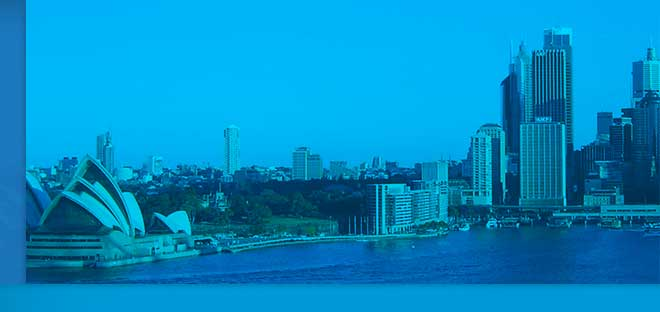
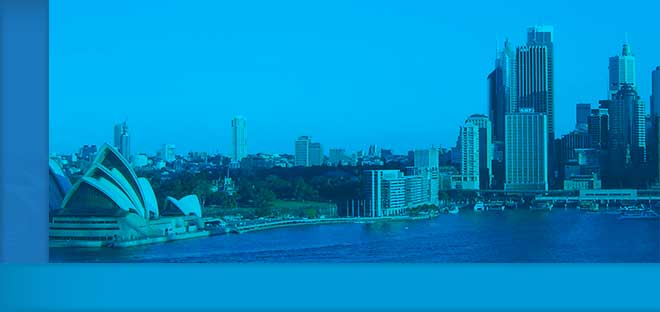
added hero images for air quality, energy solutions, smart tech, and global action climate category pages

diff --git a/sites/climate/style.css b/sites/climate/style.css
@@ -1,2 +1,2 @@
-.content{background:#ffffff}.entry-content a,.entry-content a:hover,.footer-widget a,.footer-widget a:hover{color:#128ad3}.pagination a{color:white;background-color:#128ad3;margin-right:0.25em}.pagination a:hover{color:white;background-color:#107bbc}.pagination .active a{background-color:#107bbc}.site-header{border-bottom:1px solid #7cbe30}@media (min-width: 50em){.site-header{border-bottom:3px solid #7cbe30}}.title-area{width:100%}@media (min-width: 50em){.title-area{width:50%}}.site-title{background:none;font-size:16px;margin:0;padding:0}.no-backgroundsize .site-title{background-position:0 0;padding:0}.site-title a{background:url(/wp-content/themes/america/sites/climate/images/dist/mark.png) 0 0 no-repeat;background-size:260px 81px;display:block;height:81px;line-height:1em;text-indent:-9999px}.site-title a:hover{line-height:1em}.no-backgroundsize .site-title a{background:url(/wp-content/themes/america/sites/climate/images/dist/mark-old-ie.png) 0 0 no-repeat}.nav-primary{border-bottom:1px solid #7cbe30}@media (min-width: 50em){.nav-primary{border:0}}.home .nav-primary{margin-bottom:2em}@media (min-width: 50em){.america .genesis-nav-menu .current-menu-parent>a,.america .genesis-nav-menu .current-menu-item>a{border-bottom:3px solid #128ad3}}.home-about{background-color:#7cbe30;color:#ffffff;margin-bottom:2.5em;padding:1em}.home .entry{border:1px solid #ebebeb;padding:1em}.home .entry-header .entry-meta{background-color:#128ad3;color:#ffffff;display:inline-block;margin-left:-1.14286em;margin-right:-1.14286em;padding:5px}.home .entry-meta>*:before{color:#ffffff}.home .entry-meta a,.home .entry-meta a:hover{color:#ffffff}.home .alignleft .entry-image{float:left;margin:0 1em 1em 0}@media (min-width: 25em){.home .alignleft .entry-image{width:100%}}@media (min-width: 50em){.home .alignleft .entry-image{width:auto}}.home .entry-content p{overflow:hidden}.home a.more-link{clear:both;float:right;margin-bottom:0}.entry-title{font-size:30px;margin-top:0}.entry-meta>*{line-height:1.5em;margin-left:5px;text-transform:none}.entry-meta a,.entry-meta a:hover{color:#888}.entry-footer .entry-meta{background-color:transparent;padding:0}.single-post .entry-content h1,.single-post .entry-content h2,.single-post .entry-content h3,.single-post .entry-content h4,.single-post .entry-content h5,.single-post .entry-content h6{clear:both}.sidebar .widget:first-child{background-color:#f5f5f5;clear:both;padding:0.9375em}.widget-title{font-size:1.375em;margin-top:0;text-transform:none}input[type="submit"]{background-color:#7cbe30;border-radius:0;color:#ffffff;text-transform:uppercase;width:100%}#twitter-widget-0{margin:0 auto !important;width:100% !important}@media (min-width: 50em){.blog .wp-caption,.archive .wp-caption{float:left;margin:0 1em 1em 0}}.blog .wp-caption-text,.archive .wp-caption-text{width:auto}@media (min-width: 25em){.blog .wp-caption-text,.archive .wp-caption-text{width:auto}}@media (min-width: 50em){.blog .wp-caption-text,.archive .wp-caption-text{width:285px}}.home .alignleft .entry-image{width:100%}@media (min-width: 50em){.home .alignleft .entry-image{width:365px;height:auto}}.taxonomy-description{border-bottom:1px solid #ebebeb;margin-bottom:2em;padding-bottom:1em}.archive-title{margin-top:0}.archive .archive-title{padding:220px 0 13px 25px}@media (min-width: 25em){.archive .archive-title{padding:220px 0 13px 25px}}@media (min-width: 50em){.archive .archive-title{padding:181px 0 30px 43px}}@media (min-width: 64em){.archive .archive-title{padding:245px 0 15px 25px}}@media (min-width: 75em){.archive .archive-title{padding:200px 0 35px 45px}}.category-air-quality .archive-title{background:url(/wp-content/themes/america/sites/climate/images/dist/air-quality-364.jpg) 0 0 no-repeat}@media (min-width: 25em){.category-air-quality .archive-title{background-image:url(/wp-content/themes/america/sites/climate/images/dist/air-quality-630.jpg)}}@media (min-width: 50em){.category-air-quality .archive-title{background-image:url(/wp-content/themes/america/sites/climate/images/dist/air-quality-768.jpg)}}@media (min-width: 64em){.category-air-quality .archive-title{background-image:url(/wp-content/themes/america/sites/climate/images/dist/air-quality-660.jpg)}}@media (min-width: 75em){.category-air-quality .archive-title{background-image:url(/wp-content/themes/america/sites/climate/images/dist/air-quality-800.jpg)}}.category-energy-solutions .archive-title{background:url(/wp-content/themes/america/sites/climate/images/dist/energy-solutions-364.jpg) 0 0 no-repeat}@media (min-width: 25em){.category-energy-solutions .archive-title{background-image:url()}}@media (min-width: 50em){.category-energy-solutions .archive-title{background-image:url()}}@media (min-width: 64em){.category-energy-solutions .archive-title{background-image:url()}}@media (min-width: 75em){.category-energy-solutions .archive-title{background-image:url()}}.category-smart-technology-finance .archive-title{background:url(/wp-content/themes/america/sites/climate/images/dist/smart-tech-364.jpg) 0 0 no-repeat}@media (min-width: 25em){.category-smart-technology-finance .archive-title{background-image:url()}}@media (min-width: 50em){.category-smart-technology-finance .archive-title{background-image:url()}}@media (min-width: 64em){.category-smart-technology-finance .archive-title{background-image:url()}}@media (min-width: 75em){.category-smart-technology-finance .archive-title{background-image:url()}}.category-global-action .archive-title{background:url(/wp-content/themes/america/sites/climate/images/dist/global-action-364.jpg) 0 0 no-repeat}@media (min-width: 25em){.category-global-action .archive-title{background-image:url()}}@media (min-width: 50em){.category-global-action .archive-title{background-image:url()}}@media (min-width: 64em){.category-global-action .archive-title{background-image:url()}}@media (min-width: 75em){.category-global-action .archive-title{background-image:url()}}
+.content{background:#ffffff}.entry-content a,.entry-content a:hover,.footer-widget a,.footer-widget a:hover{color:#128ad3}.pagination a{color:white;background-color:#128ad3;margin-right:0.25em}.pagination a:hover{color:white;background-color:#107bbc}.pagination .active a{background-color:#107bbc}.site-header{border-bottom:1px solid #7cbe30}@media (min-width: 50em){.site-header{border-bottom:3px solid #7cbe30}}.title-area{width:100%}@media (min-width: 50em){.title-area{width:50%}}.site-title{background:none;font-size:16px;margin:0;padding:0}.no-backgroundsize .site-title{background-position:0 0;padding:0}.site-title a{background:url(/wp-content/themes/america/sites/climate/images/dist/mark.png) 0 0 no-repeat;background-size:260px 81px;display:block;height:81px;line-height:1em;text-indent:-9999px}.site-title a:hover{line-height:1em}.no-backgroundsize .site-title a{background:url(/wp-content/themes/america/sites/climate/images/dist/mark-old-ie.png) 0 0 no-repeat}.nav-primary{border-bottom:1px solid #7cbe30}@media (min-width: 50em){.nav-primary{border:0}}.home .nav-primary{margin-bottom:2em}@media (min-width: 50em){.america .genesis-nav-menu .current-menu-parent>a,.america .genesis-nav-menu .current-menu-item>a{border-bottom:3px solid #128ad3}}.home-about{background-color:#7cbe30;color:#ffffff;margin-bottom:2.5em;padding:1em}.home .entry{border:1px solid #ebebeb;padding:1em}.home .entry-header .entry-meta{background-color:#128ad3;color:#ffffff;display:inline-block;margin-left:-1.14286em;margin-right:-1.14286em;padding:5px}.home .entry-meta>*:before{color:#ffffff}.home .entry-meta a,.home .entry-meta a:hover{color:#ffffff}.home .alignleft .entry-image{float:left;margin:0 1em 1em 0}@media (min-width: 25em){.home .alignleft .entry-image{width:100%}}@media (min-width: 50em){.home .alignleft .entry-image{width:auto}}.home .entry-content p{overflow:hidden}.home a.more-link{clear:both;float:right;margin-bottom:0}.entry-title{font-size:30px;margin-top:0}.entry-meta>*{line-height:1.5em;margin-left:5px;text-transform:none}.entry-meta a,.entry-meta a:hover{color:#888}.entry-footer .entry-meta{background-color:transparent;padding:0}.single-post .entry-content h1,.single-post .entry-content h2,.single-post .entry-content h3,.single-post .entry-content h4,.single-post .entry-content h5,.single-post .entry-content h6{clear:both}.sidebar .widget:first-child{background-color:#f5f5f5;clear:both;padding:0.9375em}.widget-title{font-size:1.375em;margin-top:0;text-transform:none}input[type="submit"]{background-color:#7cbe30;border-radius:0;color:#ffffff;text-transform:uppercase;width:100%}#twitter-widget-0{margin:0 auto !important;width:100% !important}@media (min-width: 50em){.blog .wp-caption,.archive .wp-caption{float:left;margin:0 1em 1em 0}}.blog .wp-caption-text,.archive .wp-caption-text{width:auto}@media (min-width: 25em){.blog .wp-caption-text,.archive .wp-caption-text{width:auto}}@media (min-width: 50em){.blog .wp-caption-text,.archive .wp-caption-text{width:285px}}.home .alignleft .entry-image{width:100%}@media (min-width: 50em){.home .alignleft .entry-image{width:365px;height:auto}}.taxonomy-description{border-bottom:1px solid #ebebeb;margin-bottom:2em;padding-bottom:1em}.archive-title{margin-top:0}.archive .archive-title{padding:220px 0 13px 25px;text-shadow:0px 1px 3px #404040}@media (min-width: 25em){.archive .archive-title{padding:229px 0 4px 15px}}@media (min-width: 50em){.archive .archive-title{padding:181px 0 30px 41px}}@media (min-width: 64em){.archive .archive-title{padding:223px 0 37px 48px}}@media (min-width: 75em){.archive .archive-title{padding:200px 0 35px 45px}}.category-air-quality .archive-title{background:url(/wp-content/themes/america/sites/climate/images/dist/air-quality-364.jpg) 0 0 no-repeat}@media (min-width: 25em){.category-air-quality .archive-title{background-image:url(/wp-content/themes/america/sites/climate/images/dist/air-quality-630.jpg)}}@media (min-width: 50em){.category-air-quality .archive-title{background-image:url(/wp-content/themes/america/sites/climate/images/dist/air-quality-768.jpg)}}@media (min-width: 64em){.category-air-quality .archive-title{background-image:url(/wp-content/themes/america/sites/climate/images/dist/air-quality-660.jpg)}}@media (min-width: 75em){.category-air-quality .archive-title{background-image:url(/wp-content/themes/america/sites/climate/images/dist/air-quality-800.jpg)}}.category-energy-solutions .archive-title{background:url(/wp-content/themes/america/sites/climate/images/dist/energy-solutions-364.jpg) 0 0 no-repeat;padding:168px 0 13px 25px}@media (min-width: 25em){.category-energy-solutions .archive-title{background-image:url(/wp-content/themes/america/sites/climate/images/dist/energy-solutions-630.jpg);padding:229px 0 4px 13px}}@media (min-width: 50em){.category-energy-solutions .archive-title{background-image:url(/wp-content/themes/america/sites/climate/images/dist/energy-solutions-768.jpg);padding:181px 0 30px 39px}}@media (min-width: 64em){.category-energy-solutions .archive-title{background-image:url(/wp-content/themes/america/sites/climate/images/dist/energy-solutions-660.jpg);padding:223px 0 37px 48px}}@media (min-width: 75em){.category-energy-solutions .archive-title{background-image:url(/wp-content/themes/america/sites/climate/images/dist/energy-solutions-800.jpg);padding:200px 0 35px 45px}}.category-smart-technology-finance .archive-title{background:url(/wp-content/themes/america/sites/climate/images/dist/smart-tech-364.jpg) 0 0 no-repeat;padding:116px 0 13px 25px}@media (min-width: 25em){.category-smart-technology-finance .archive-title{background-image:url(/wp-content/themes/america/sites/climate/images/dist/smart-tech-630.jpg);padding:177px 0 4px 16px}}@media (min-width: 50em){.category-smart-technology-finance .archive-title{background-image:url(/wp-content/themes/america/sites/climate/images/dist/smart-tech-768.jpg);padding:181px 0 30px 42px}}@media (min-width: 64em){.category-smart-technology-finance .archive-title{background-image:url(/wp-content/themes/america/sites/climate/images/dist/smart-tech-660.jpg);padding:223px 0 37px 48px}}@media (min-width: 75em){.category-smart-technology-finance .archive-title{background-image:url(/wp-content/themes/america/sites/climate/images/dist/smart-tech-800.jpg);padding:200px 0 35px 45px}}.category-global-action .archive-title{background:url(/wp-content/themes/america/sites/climate/images/dist/global-action-364.jpg) 0 0 no-repeat}@media (min-width: 25em){.category-global-action .archive-title{background-image:url(/wp-content/themes/america/sites/climate/images/dist/global-action-630.jpg)}}@media (min-width: 50em){.category-global-action .archive-title{background-image:url(/wp-content/themes/america/sites/climate/images/dist/global-action-768.jpg)}}@media (min-width: 64em){.category-global-action .archive-title{background-image:url(/wp-content/themes/america/sites/climate/images/dist/global-action-660.jpg)}}@media (min-width: 75em){.category-global-action .archive-title{background-image:url(/wp-content/themes/america/sites/climate/images/dist/global-action-800.jpg)}}
 /*# sourceMappingURL=style.css.map */

diff --git a/sites/climate/style.scss b/sites/climate/style.scss
@@ -298,17 +298,18 @@ input[type="submit"] {
 
 .archive .archive-title {
   padding: 220px 0 13px 25px;
+  text-shadow: 0px 1px 3px #404040;
 
   @include bp($big-mobile) {
-    padding: 220px 0 13px 25px;
+    padding: 229px 0 4px 15px;
   }
 
   @include bp($tablet) {
-    padding: 181px 0 30px 43px;
+    padding: 181px 0 30px 41px;
   }
 
   @include bp($laptop) {
-    padding: 245px 0 15px 25px;
+    padding: 223px 0 37px 48px;
   }
 
   @include bp($desktop) {
@@ -338,35 +339,45 @@ input[type="submit"] {
 
 .category-energy-solutions .archive-title {
   background: url(/wp-content/themes/america/sites/climate/images/dist/energy-solutions-364.jpg) 0 0 no-repeat;
+  padding: 168px 0 13px 25px;
 
   @include bp($big-mobile) {
-    background-image: url();
+    background-image: url(/wp-content/themes/america/sites/climate/images/dist/energy-solutions-630.jpg);
+    padding: 229px 0 4px 13px;
   }
   @include bp($tablet) {
-    background-image: url();
+    background-image: url(/wp-content/themes/america/sites/climate/images/dist/energy-solutions-768.jpg);
+    padding: 181px 0 30px 39px;
   }
   @include bp($laptop) {
-    background-image: url();
+    background-image: url(/wp-content/themes/america/sites/climate/images/dist/energy-solutions-660.jpg);
+    padding: 223px 0 37px 48px;
   }
   @include bp($desktop) {
-    background-image: url();
+    background-image: url(/wp-content/themes/america/sites/climate/images/dist/energy-solutions-800.jpg);
+    padding: 200px 0 35px 45px;
   }
 }
 
 .category-smart-technology-finance .archive-title {
   background: url(/wp-content/themes/america/sites/climate/images/dist/smart-tech-364.jpg) 0 0 no-repeat;
+  padding: 116px 0 13px 25px;
 
   @include bp($big-mobile) {
-    background-image: url();
+    background-image: url(/wp-content/themes/america/sites/climate/images/dist/smart-tech-630.jpg);
+    padding: 177px 0 4px 16px;
   }
   @include bp($tablet) {
-    background-image: url();
+    background-image: url(/wp-content/themes/america/sites/climate/images/dist/smart-tech-768.jpg);
+    padding: 181px 0 30px 42px;
   }
   @include bp($laptop) {
-    background-image: url();
+    background-image: url(/wp-content/themes/america/sites/climate/images/dist/smart-tech-660.jpg);
+    padding: 223px 0 37px 48px;
   }
   @include bp($desktop) {
-    background-image: url();
+    background-image: url(/wp-content/themes/america/sites/climate/images/dist/smart-tech-800.jpg);
+    padding: 200px 0 35px 45px;
   }
 }
 
@@ -374,15 +385,15 @@ input[type="submit"] {
   background: url(/wp-content/themes/america/sites/climate/images/dist/global-action-364.jpg) 0 0 no-repeat;
 
   @include bp($big-mobile) {
-    background-image: url();
+    background-image: url(/wp-content/themes/america/sites/climate/images/dist/global-action-630.jpg);
   }
   @include bp($tablet) {
-    background-image: url();
+    background-image: url(/wp-content/themes/america/sites/climate/images/dist/global-action-768.jpg);
   }
   @include bp($laptop) {
-    background-image: url();
+    background-image: url(/wp-content/themes/america/sites/climate/images/dist/global-action-660.jpg);
   }
   @include bp($desktop) {
-    background-image: url();
+    background-image: url(/wp-content/themes/america/sites/climate/images/dist/global-action-800.jpg);
   }
 }
